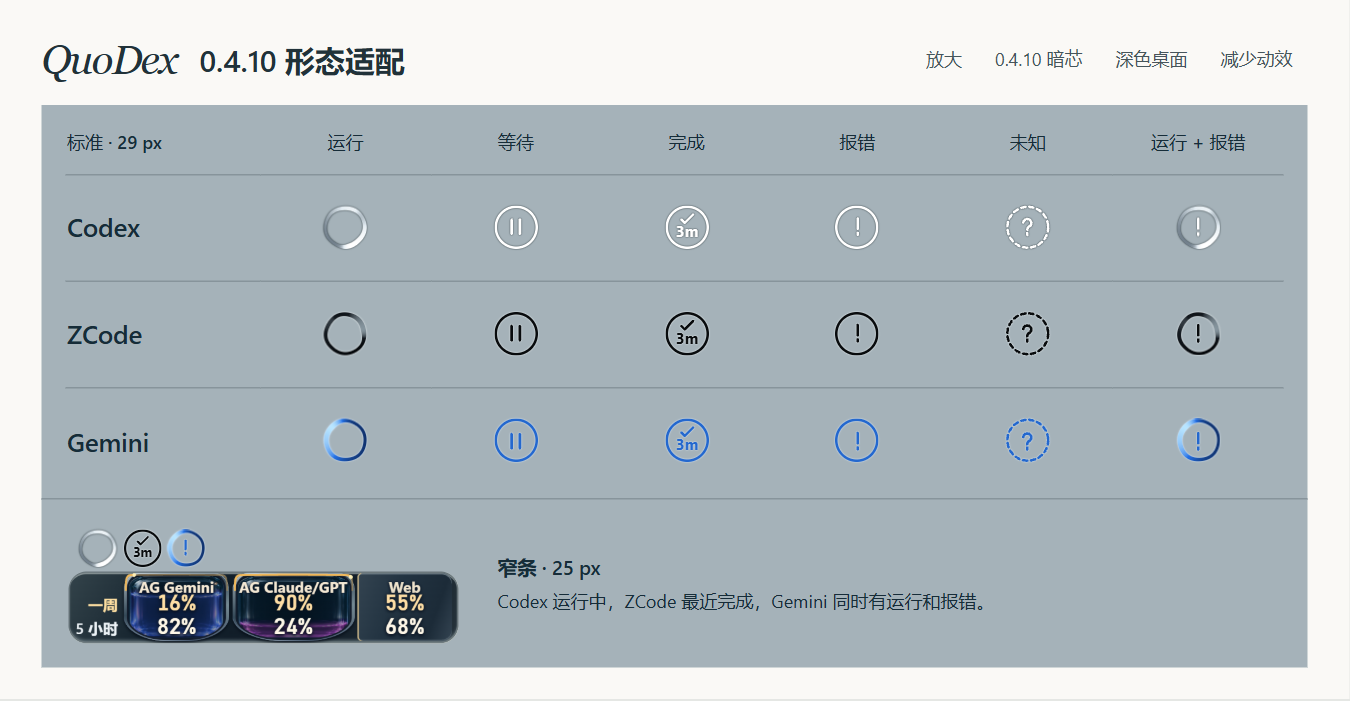
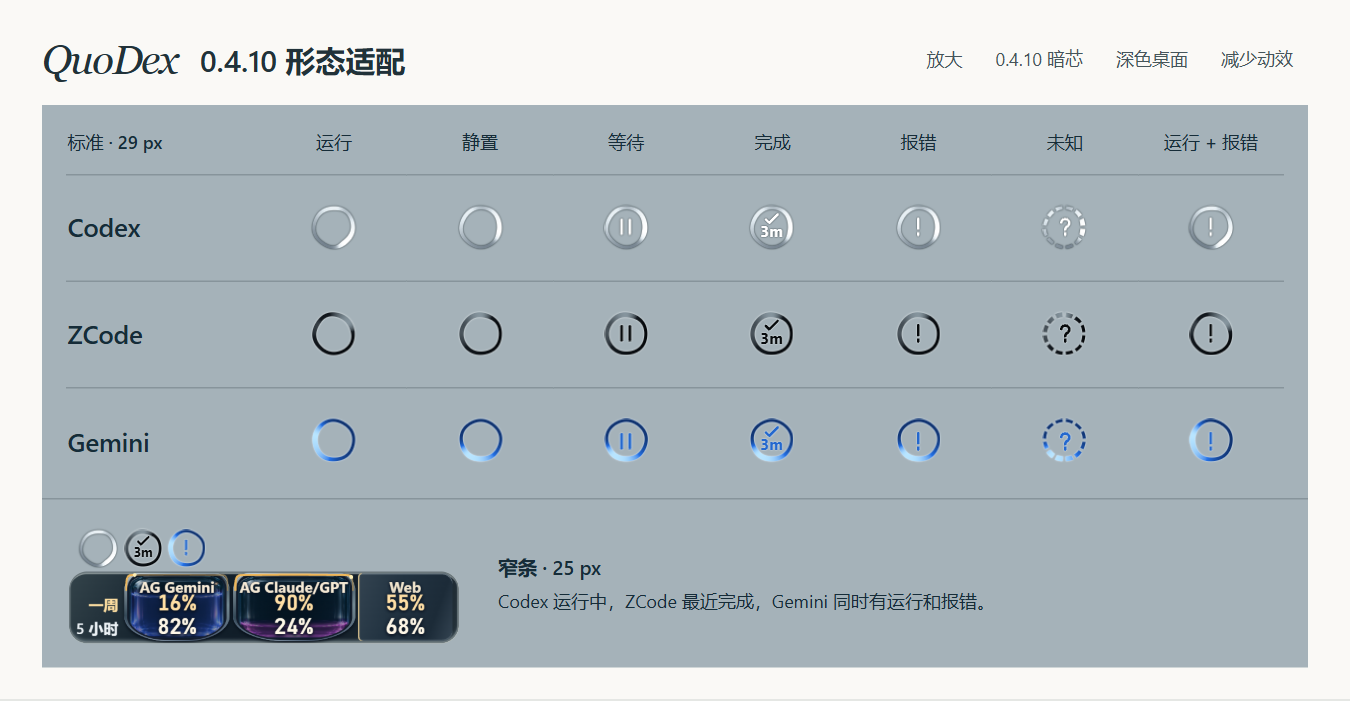
静止任务环复用运行水纹帧，保留亮峰、暗部和状态笔画

diff --git a/docs/design/gemini-taskbar/v0410-reference/study.js b/docs/design/gemini-taskbar/v0410-reference/study.js
@@ -3,7 +3,7 @@ const agents = {
   zcode: {name:"ZCode", stops:[[4,7,10],[19,25,31],[133,148,157]]},
   gemini: {name:"Gemini", stops:[[16,51,112],[36,113,231],[184,229,255]]},
 };
-const labels = {running:"运行", waiting:"等待", completed:"3 分钟前完成", failed:"报错", unknown:"未知", mixed:"运行与报错"};
+const labels = {running:"运行", idle:"静置", waiting:"等待", completed:"3 分钟前完成", failed:"报错", unknown:"未知", mixed:"运行与报错"};
 const paths = {
   waiting:"M8 5v14M16 5v14",
   failed:"M12 4v10m0 4v2",
@@ -46,8 +46,17 @@ function measure(stream) {
     const dx=(x+.5)/stream.scale-diameter/2;
     const dy=(y+.5)/stream.scale-diameter/2;
     const radius=Math.hypot(dx,dy);
-    if(radius>=diameter/2-.34-2.4-.5/stream.scale && radius<=diameter/2+.5/stream.scale)
-      stream.band.push({offset:4*(y*n+x),radius,angle:Math.atan2(dy,dx)});
+    if(radius>=diameter/2-.34-2.4-.5/stream.scale && radius<=diameter/2+.5/stream.scale) {
+      const angle=Math.atan2(dy,dx);
+      let coverage=1;
+      if(stream.dashed) {
+        // Twelve breaks in the water rim. Soften each cut by one device pixel.
+        const phase=(angle/tau+1.25)*12;
+        const gapDistance=Math.abs(phase-Math.round(phase))-.15;
+        coverage=clamp(gapDistance*tau*radius/12*stream.scale+.5);
+      }
+      stream.band.push({offset:4*(y*n+x),radius,angle,coverage});
+    }
   }
 }
 function paint(stream,time) {
@@ -55,7 +64,7 @@ function paint(stream,time) {
   if(!stream.image) return;
   const rgba=stream.image.data;
   const scale=stream.scale;
-  for(const {offset,radius,angle} of stream.band) {
+  for(const {offset,radius,angle,coverage} of stream.band) {
     const {outer,inner,energy}=waveAt(angle,time,stream.seed);
     // Same two pigment intervals and crest exponent as 0.4.10. The centre stays transparent.
     const step=energy<.45?0:1;
@@ -64,7 +73,7 @@ function paint(stream,time) {
       const a=stream.stops[step][c],b=stream.stops[step+1][c];
       rgba[offset+c]=Math.round(a+(b-a)*mix);
     }
-    rgba[offset+3]=Math.round(255*clamp((outer-radius)*scale+.5)*clamp((radius-inner)*scale+.5));
+    rgba[offset+3]=Math.round(255*coverage*clamp((outer-radius)*scale+.5)*clamp((radius-inner)*scale+.5));
   }
   stream.ctx.putImageData(stream.image,0,0);
 }
@@ -74,15 +83,14 @@ function ring(agent,state) {
   result.dataset.state=state;
   result.setAttribute("role","img");
   result.setAttribute("aria-label",agents[agent].name+" · "+labels[state]);
-  if(state==="running" || state==="mixed") {
-    const canvas=document.createElement("canvas");
-    result.append(canvas);
-    streams.push({canvas,ctx:canvas.getContext("2d"),stops:agents[agent].stops,seed:phaseSeed(agent)});
-  } else if(state==="completed") {
-    result.innerHTML='<svg class="completion" viewBox="0 0 40.8 40.8"><circle cx="20.4" cy="20.4" r="19.2" stroke-width="2.4"/><path d="m5 12 4 4 10-10" transform="translate(10.8 3.5) scale(.8)" stroke-width="2.8"/><text x="20.4" y="29.8" text-anchor="middle">3m</text></svg>';
-  } else {
-    const dashed=state==="unknown"?' stroke-dasharray="4.2 3.4"':'';
-    result.innerHTML='<svg class="outline" viewBox="0 0 40.8 40.8"><circle cx="20.4" cy="20.4" r="19.2" stroke-width="2.4"'+dashed+'/></svg>';
+  const canvas=document.createElement("canvas");
+  result.append(canvas);
+  streams.push({
+    canvas,ctx:canvas.getContext("2d"),stops:agents[agent].stops,seed:phaseSeed(agent),
+    moving:state==="running" || state==="mixed",dashed:state==="unknown"
+  });
+  if(state==="completed") {
+    result.insertAdjacentHTML("beforeend",'<svg class="completion" viewBox="0 0 40.8 40.8"><path d="m5 12 4 4 10-10" transform="translate(10.8 3.5) scale(.8)" stroke-width="2.8"/><text x="20.4" y="29.8" text-anchor="middle">3m</text></svg>');
   }
   const path=paths[state==="mixed"?"failed":state];
   if(path) result.insertAdjacentHTML("beforeend",'<svg class="glyph" viewBox="0 0 24 24"><path d="'+path+'"/></svg>');
@@ -99,6 +107,7 @@ for(const [agent,details] of Object.entries(agents)) {
 }
 const strip=document.getElementById("strip");
 strip.append(ring("codex","running"),ring("zcode","completed"),ring("gemini","mixed"));
+const movingStreams=streams.filter(stream=>stream.moving);
 const pref=matchMedia("(prefers-reduced-motion: reduce)");
 const reduce=document.getElementById("reduce");
 let manualReduce=false;
@@ -110,7 +119,7 @@ function frame(now) {
   if(now-previous>=1000/30) {
     time+=(now-previous)/1000;
     previous=now;
-    streams.forEach(stream=>paint(stream,time));
+    movingStreams.forEach(stream=>paint(stream,time));
   }
   request=requestAnimationFrame(frame);
 }
@@ -118,7 +127,7 @@ function refresh() {
   if(request) cancelAnimationFrame(request);
   request=0;
   previous=null;
-  streams.forEach(stream=>paint(stream,time));
+  streams.forEach(stream=>paint(stream,stream.moving?time:0));
   reduce.setAttribute("aria-pressed",String(manualReduce||pref.matches));
   reduce.disabled=pref.matches;
   if(!manualReduce && !pref.matches && !document.hidden) request=requestAnimationFrame(frame);

diff --git a/docs/design/gemini-taskbar/v0410-reference/study.css b/docs/design/gemini-taskbar/v0410-reference/study.css
@@ -27,11 +27,11 @@ td {height:71px}
 .ring.gemini {--brand:#2468ce; --edge:#deeeff}
 #sheet.core .ring {border-radius:50%;background:rgba(3,15,22,.75)}
 #sheet.core .ring:is([data-state=running],[data-state=mixed],[data-state=completed]) {background:#071723}
-#sheet.core .zcode {--reading:#e1e8ed}
+#sheet:is(.core,.dark) .zcode {--reading:#e1e8ed}
 #sheet.core .zcode:not([data-state=unknown]) {box-shadow:0 0 0 .55px rgb(225 233 238 / 74%)}
-#sheet.core .gemini {--reading:#a4cbff}
-#sheet.core .glyph,#sheet.core .completion :is(path,text) {color:var(--reading,var(--brand))}
-.ring canvas,.ring .outline,.ring .completion {width:100%;height:100%;position:absolute;inset:0}
+#sheet:is(.core,.dark) .gemini {--reading:#a4cbff}
+.ring .glyph,.ring .completion :is(path,text) {color:var(--reading,var(--brand))}
+.ring canvas,.ring .completion {width:100%;height:100%;position:absolute;inset:0}
 .ring svg {fill:none;stroke:currentColor;stroke-linecap:round;stroke-linejoin:round}
 .glyph {width:56.37%;height:56.37%;position:relative;stroke-width:2.6}
 .ring text {fill:currentColor;stroke:none;font:650 14px "Segoe UI",sans-serif; font-variant-numeric:tabular-nums}

diff --git a/docs/design/gemini-taskbar/v0410-reference/index.html b/docs/design/gemini-taskbar/v0410-reference/index.html
@@ -20,7 +20,7 @@
   </header>
   <section class="studio" aria-label="三色任务圆环">
     <table>
-      <thead><tr><th scope="col" id="scale">标准 · 29 px</th><th scope="col">运行</th><th scope="col">等待</th><th scope="col">完成</th><th scope="col">报错</th><th scope="col">未知</th><th scope="col">运行 + 报错</th></tr></thead>
+      <thead><tr><th scope="col" id="scale">标准 · 29 px</th><th scope="col">运行</th><th scope="col">静置</th><th scope="col">等待</th><th scope="col">完成</th><th scope="col">报错</th><th scope="col">未知</th><th scope="col">运行 + 报错</th></tr></thead>
       <tbody id="examples"></tbody>
     </table>
   </section>

diff --git a/docs/design/gemini-taskbar/v0410-reference/README.md b/docs/design/gemini-taskbar/v0410-reference/README.md
@@ -1,6 +1,6 @@
 # 0.4.10 任务环对照
 
-[旧版五态](old.png) · [三 Agent 透明环心](overview.png) · [三 Agent 暗芯](dark-core.png) · [动效](motion.webp) · [交互预览](index.html)
+[静止材质修改前后](static-compare.png) · [旧版五态](old.png) · [三 Agent 透明环心](overview.png) · [三 Agent 暗芯](dark-core.png) · [动效](motion.webp) · [交互预览](index.html)
 
 本地标签 `v0.4.10` 指向 `5f2e732`。该版按聊天绘制任务环，Codex 和 ZCode 各自占用一个来源胶囊。[标签内的 Windows 截图](../../../verification/task-source-capsules/native-capsules.png) · [标签保存的早期水纹实录](../../../../.impeccable/review/task-water-v6/native-water-motion.gif)
 
@@ -15,3 +15,5 @@
 顶部每个 Agent 只占一环。对照稿把颜色用于识别 Agent，沿用旧版的笔画、分钟布局和水纹运动，并让圆心透出桌面。同一 Agent 的不同聊天可以同时运行和报错，样稿用外围水纹与中心叹号一起表达。在正式版 `b47c86b` 中，顶部运行环仍是旋转缺口。[当前版 Windows 实录](../../../verification/gemini-taskbar/rings/motion.webp)
 
 原版笔画在标签的 `src/TaskStatusStrip.tsx`，材质计算在 `src/TaskWaterFlow.tsx`。后者在标签和 `b47c86b` 中指向相同的 Git blob `a877aa534d8bf5671b52f7ec46a55af4acaab3a5`。可用 `git show v0.4.10:src/TaskWaterFlow.tsx` 查看原算法。
+
+样稿中，静置、等待、完成、报错的环缘都取同色运行水纹的第一帧。未知态在同一帧上留出十二处断口。动画循环只重绘仍有任务运行的环；中心的状态笔画与水纹分层绘制。
